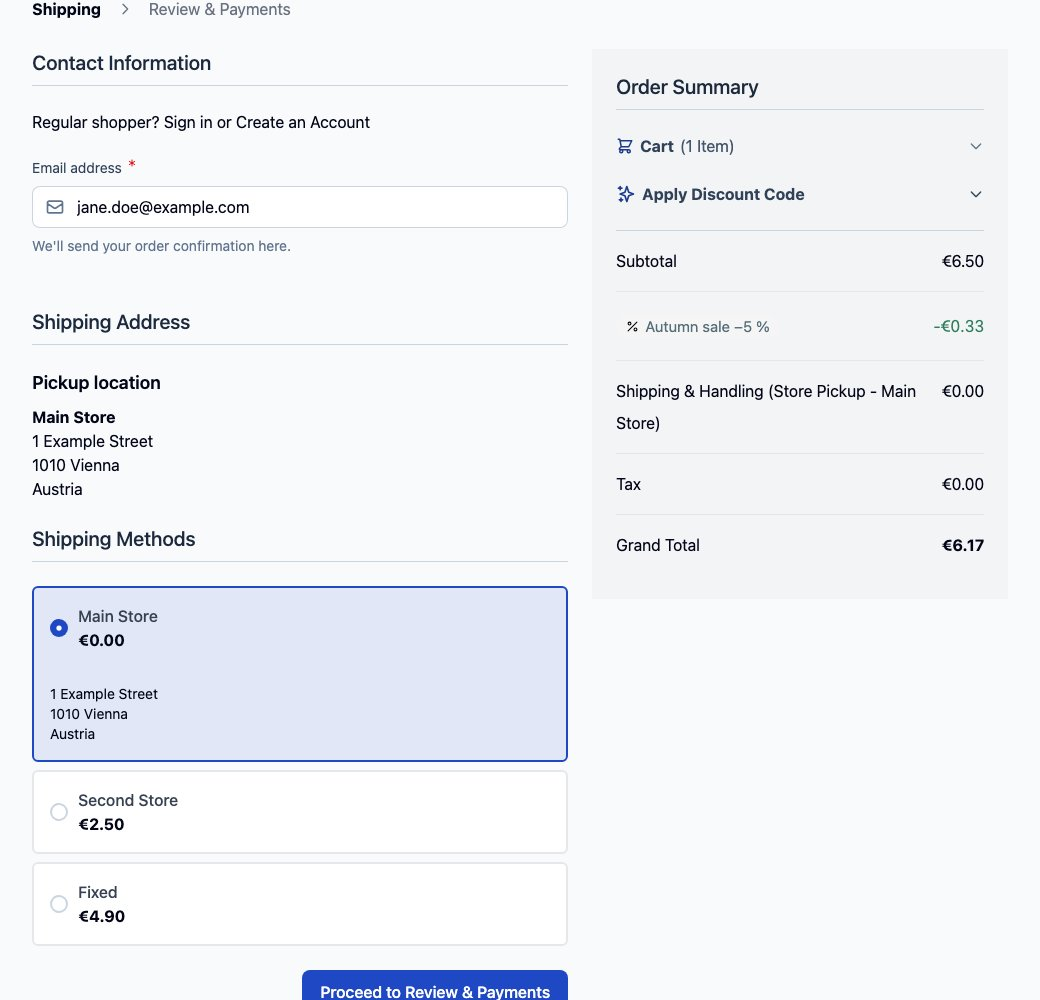
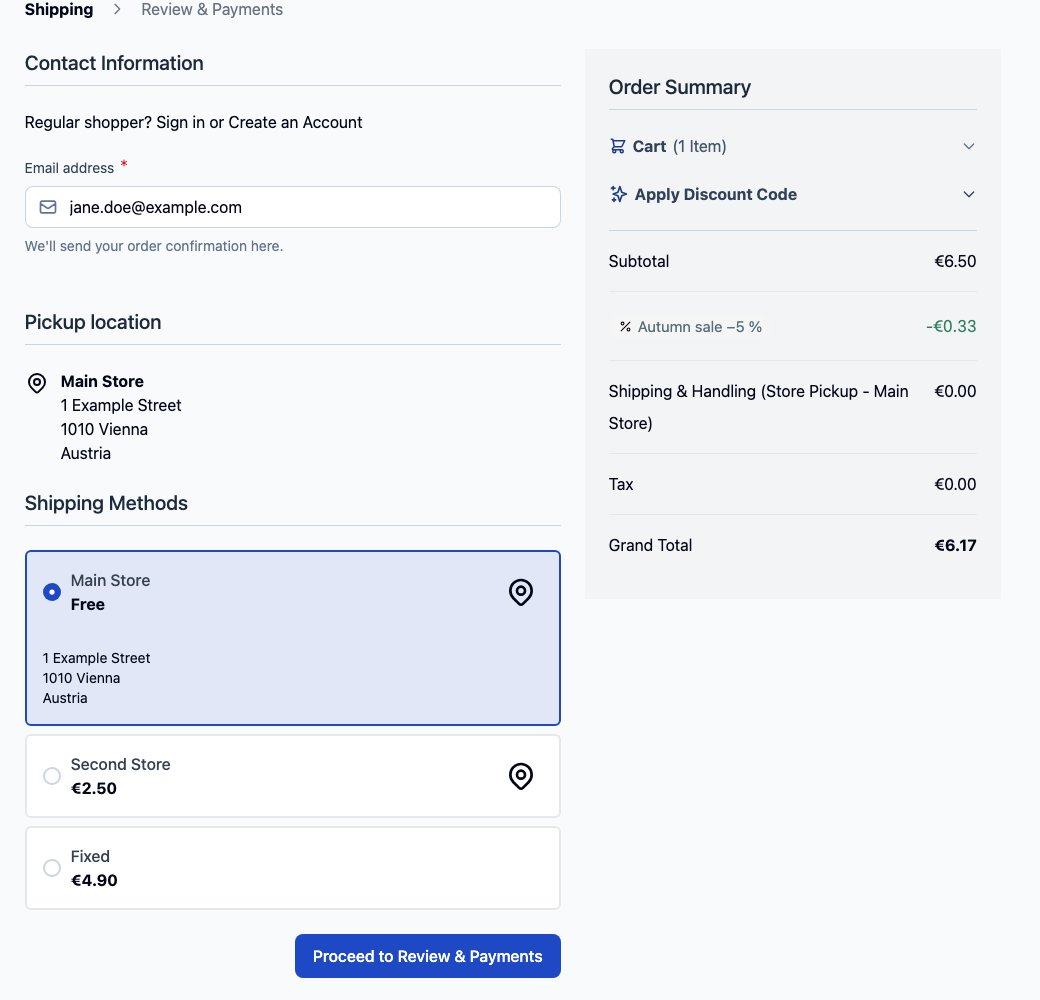
Update the checkout screenshots and docs (#11)
Closes #10
Closes #11

diff --git a/README.md b/README.md
@@ -9,7 +9,10 @@ pickup rate. The module is not released yet.
 
 - Selecting a pickup rate swaps the shipping address to the location, through the core module's address applier.
 - The shipping address form is replaced by a read-only location card while a pickup rate is selected.
+- While the card is shown, the section heading reads "Pickup location" instead of "Shipping Address", and the card
+  shows the pin icon beside the location. Switching to another rate flips the heading back without a reload.
 - The selected pickup rate shows the location details beneath it.
+- A rate that costs nothing shows "Free" instead of the zero amount; a fee still shows the amount.
 - The billing address stays the customer's own.
 - On the payment step the "same address" checkbox is hidden for pickup and a hint says the billing address is used for
   the invoice. In the default (multi-step) checkout and checkouts that inherit from it, a banner also names the pickup
@@ -97,9 +100,27 @@ The pickup rates, the payment step banner and the summary card share one icon, t
 An icon set on a pickup rate through layout metadata (block `checkout.shipping.method.pppickup_<code>`, argument
 `metadata`) wins over the default.
 
+Heading: Hyvä's "Shipping Address" title sits outside the Magewire component that re-renders on a rate switch, so it
+cannot be changed on the server. The card hides it with a small `<style>` rule (`#shipping-details:has(.pp-pickup-card)
+> legend`) and renders its own title with the same markup and classes. The rule needs a browser with `:has()`
+support; elsewhere both titles show. A strict Content Security Policy that blocks inline styles needs the rule in
+your theme CSS instead.
+
+"Free": the plugin `Plugin\ViewModel\Checkout\Formatter\ShowFreeShippingRates` adds a condition to Hyvä's price
+formatter for the shipping method list. Hyvä's conditions do not see the shipping method, so it applies to every
+zero-priced rate in the list, not only to pickup rates. To switch it off, set the `enabled` argument in your `di.xml`:
+
+```xml
+<type name="PixelPerfect\StorePickupHyvaCheckout\Plugin\ViewModel\Checkout\Formatter\ShowFreeShippingRates">
+    <arguments>
+        <argument name="enabled" xsi:type="boolean">false</argument>
+    </arguments>
+</type>
+```
+
 The module registers itself for Hyvä's Tailwind build (`hyva:config:generate`), so its templates are scanned.
 
-Translations are included for `en_US`, `de_DE` and `it_IT`.
+Translations (including "Free") are included for `en_US`, `de_DE` and `it_IT`.
 
 ## Known limits
 

diff --git a/CHANGELOG.md b/CHANGELOG.md
@@ -15,5 +15,7 @@ The format follows [Keep a Changelog](https://keepachangelog.com/en/1.1.0/).
 - Pickup card in the order summary instead of "Ship To" and "Shipping Method"; delivery quotes render Hyvä's summary unchanged.
 - Location details under the selected pickup rate.
 - Pickup icon (map pin) on the pickup rates, shared with the payment step banner and the summary card. Configurable through the `iconPath` argument of the `PickupIcon` ViewModel.
+- Section heading "Pickup location" instead of "Shipping Address" while the pickup card is shown, flipping live with the rate.
+- "Free" instead of a zero amount on zero-priced rates in the shipping method list; switch off with the `enabled` argument of `ShowFreeShippingRates`.
 - Translations for `en_US`, `de_DE` and `it_IT`.
 - README with requirements, installation, customising, known limits and screenshots.
